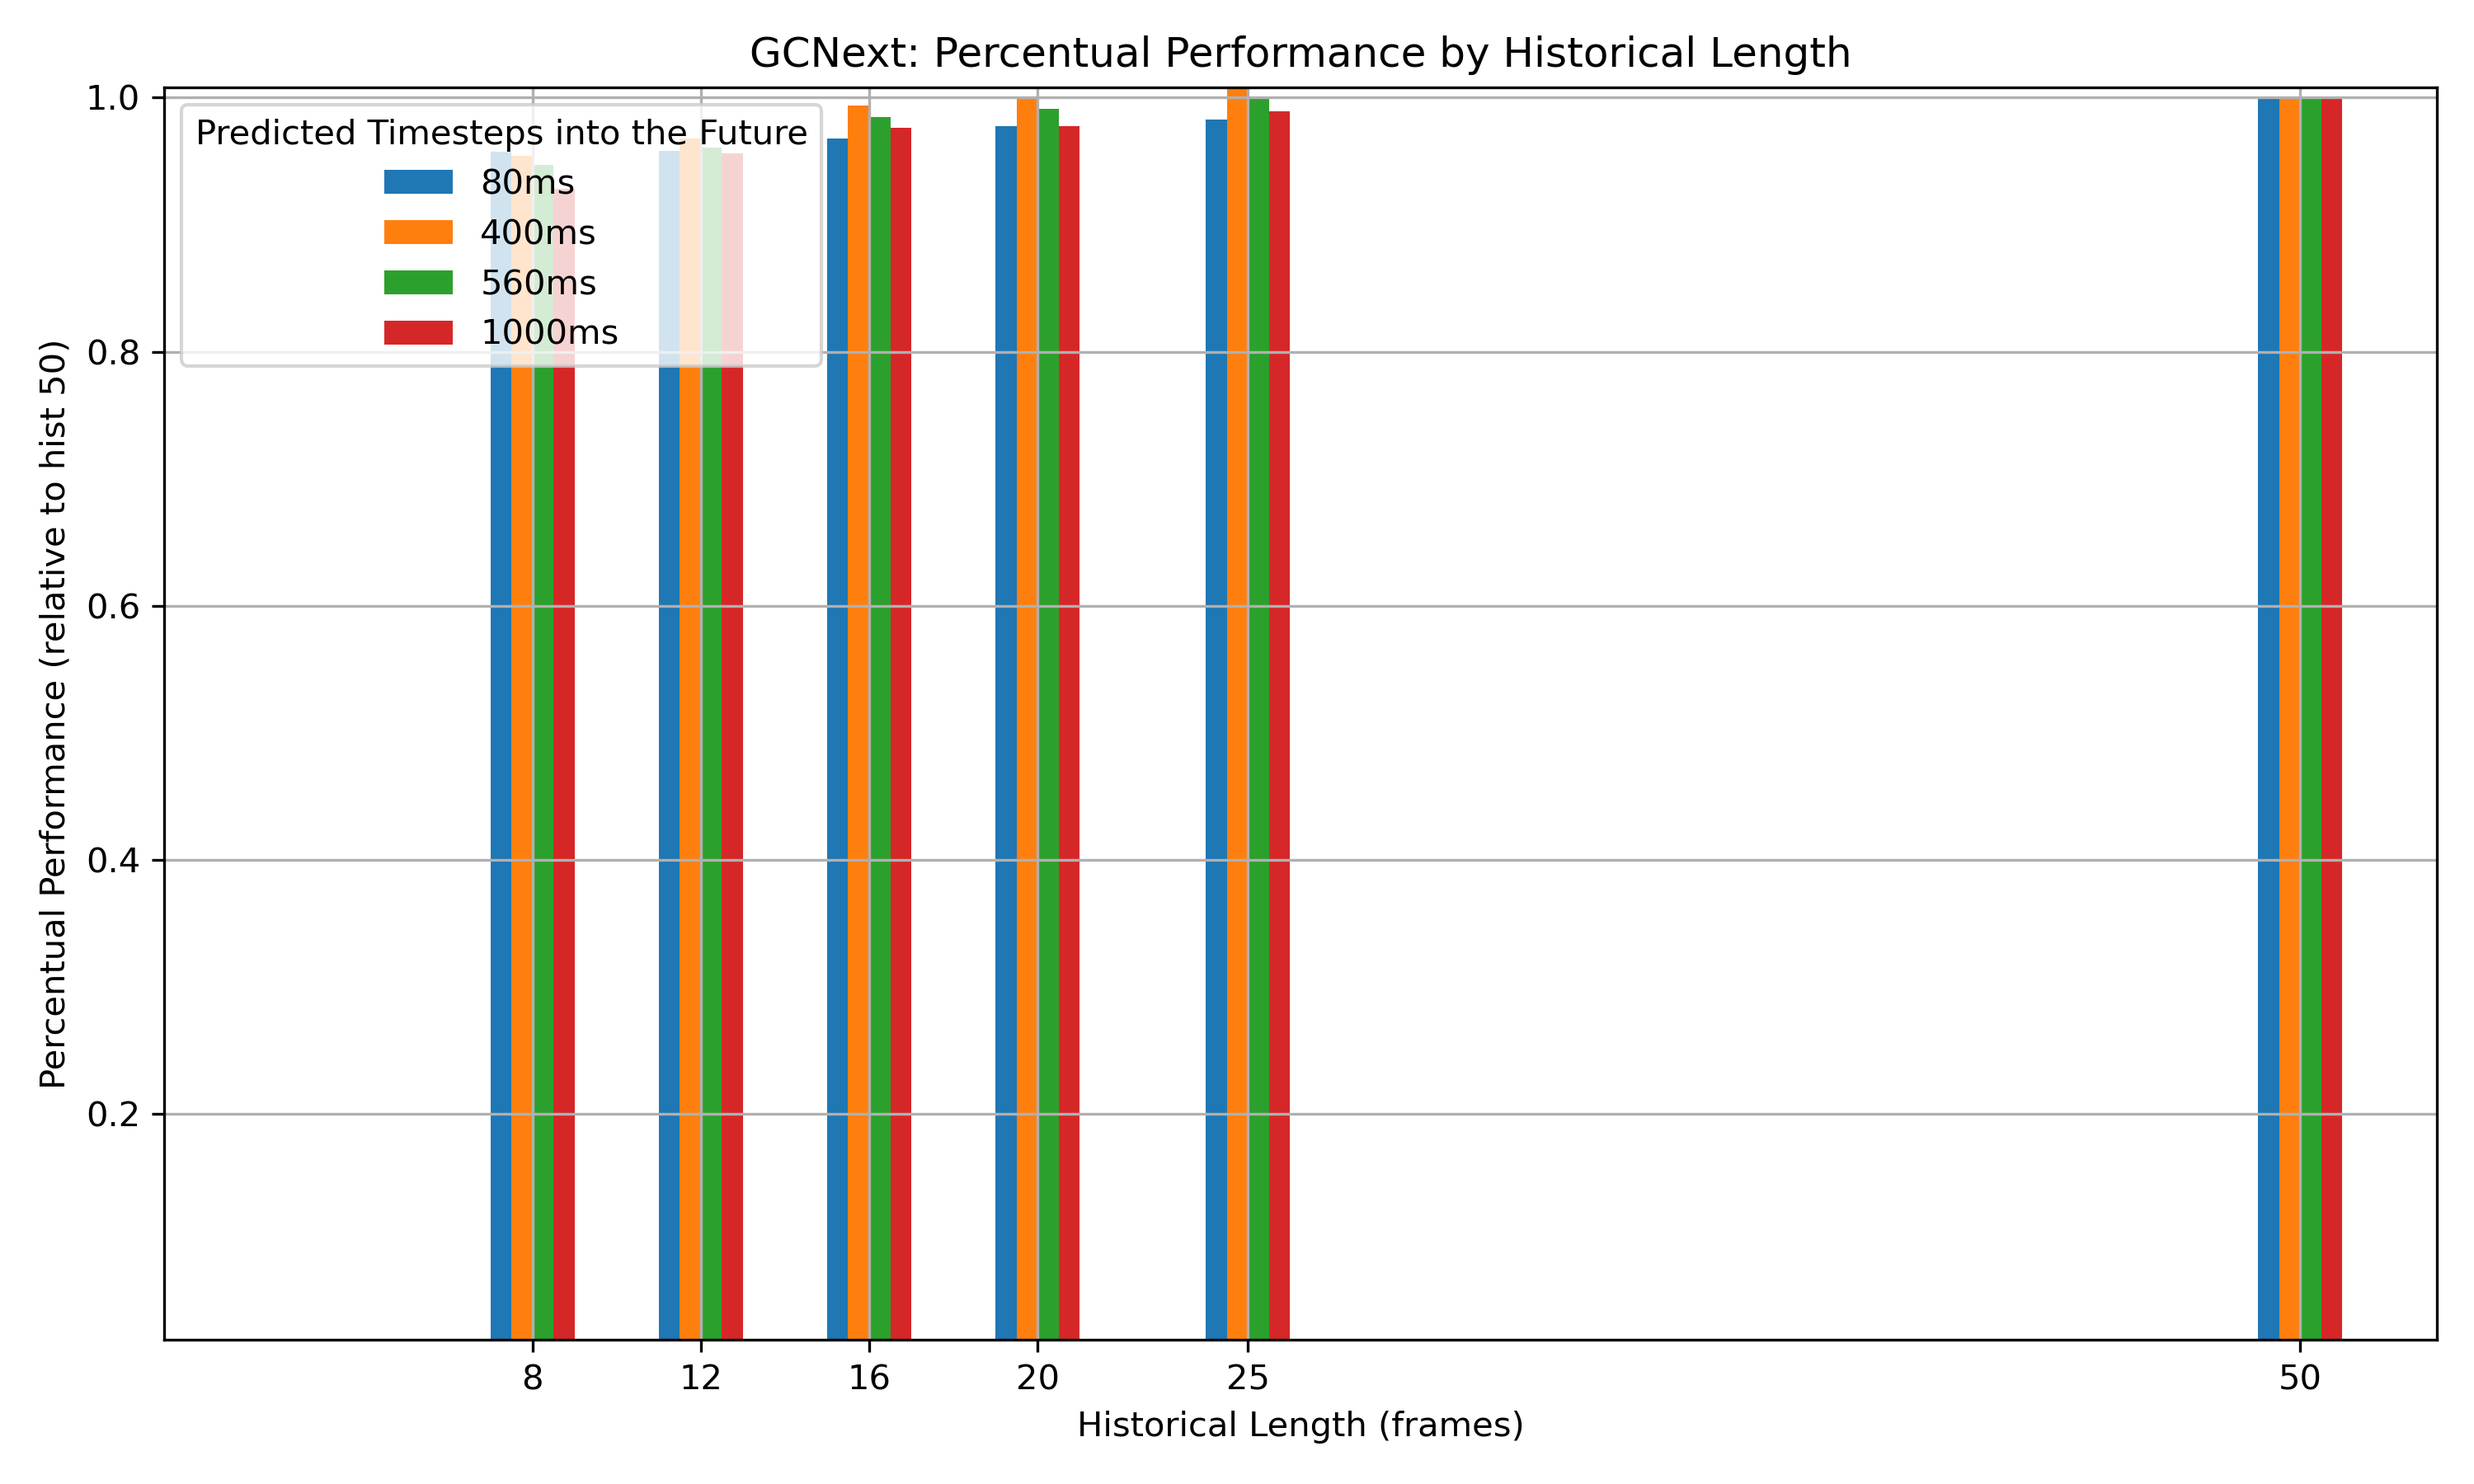
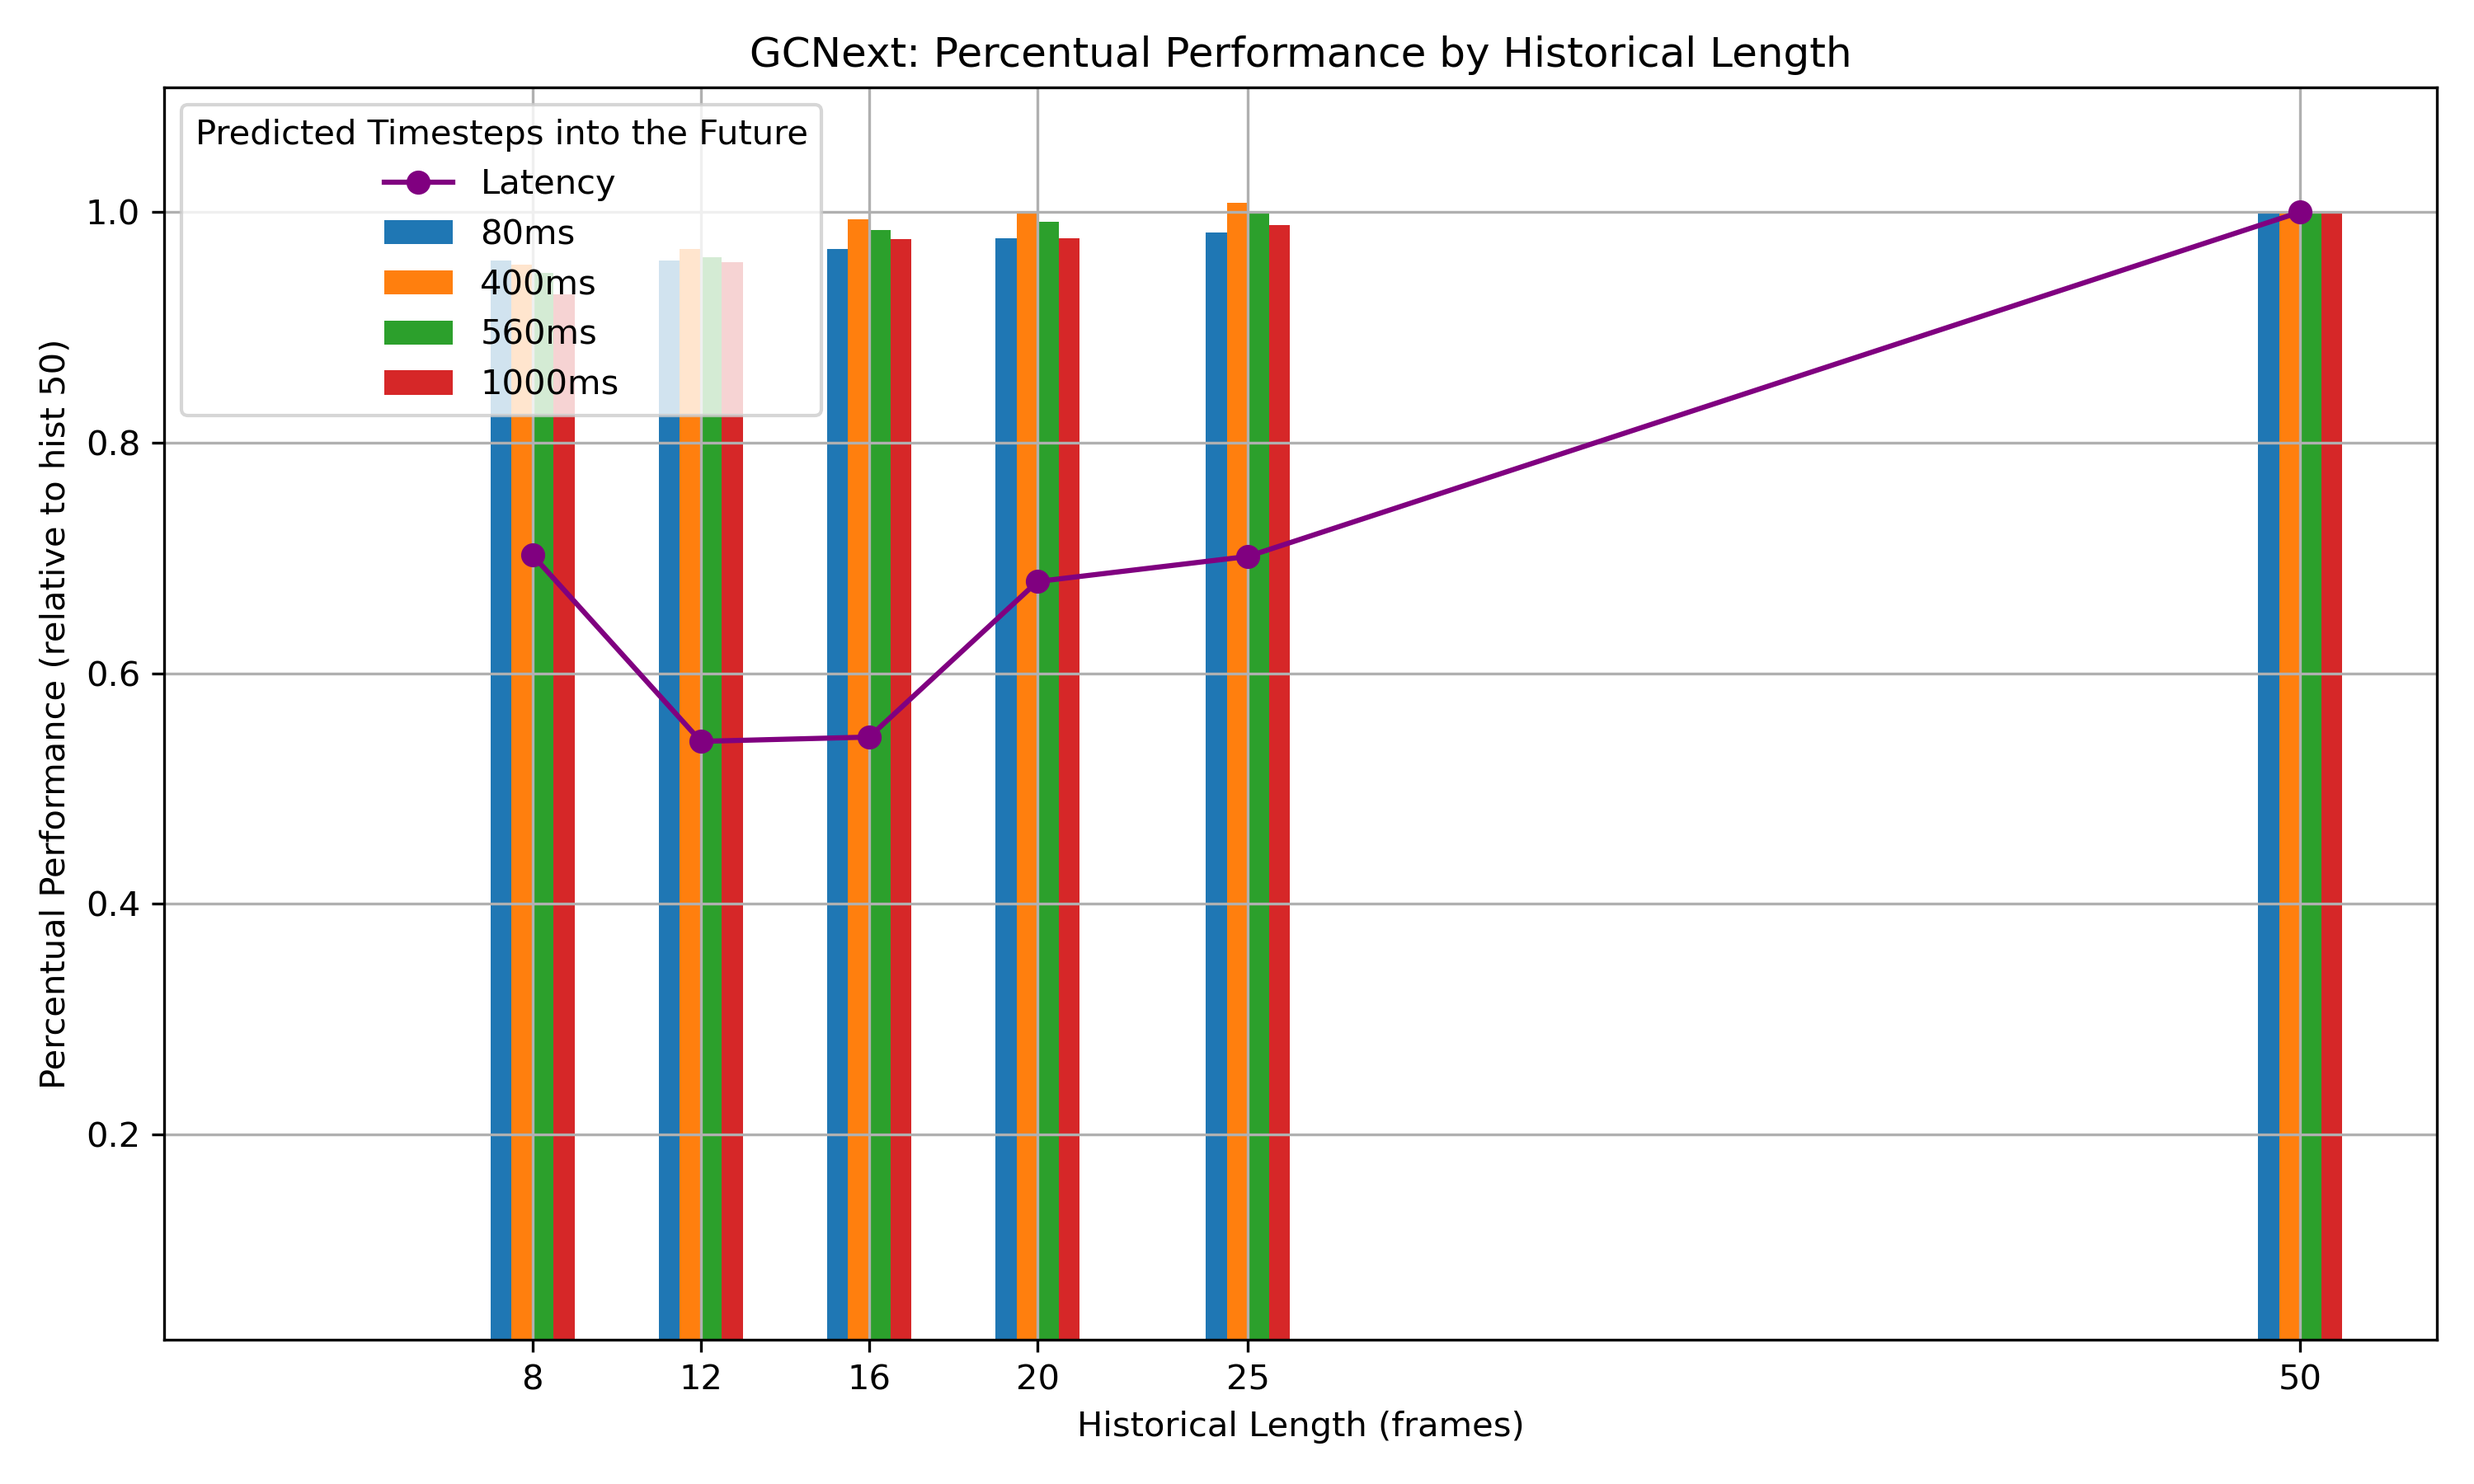
better plots

diff --git a/exps/run/eval_different_lengths.py b/exps/run/eval_different_lengths.py
@@ -116,7 +116,7 @@ x_bar_max = x_max + 4  # for bar plots
 y_min_abs = min(physmop_performance_data.min(), gcn_performance_data.min())
 y_max_abs = max(physmop_performance_data.max(), gcn_performance_data.max())
 y_min_rel = min(physmop_percentual_performance.min(), gcn_percentual_performance.min())
-y_max_rel = max(physmop_percentual_performance.max(), gcn_percentual_performance.max())
+y_max_rel = max(physmop_percentual_performance.max(), gcn_percentual_performance.max()) + 0.1
 
 # --- PhysMoP Line Plot ---
 fig1, ax1 = plt.subplots(figsize=figsize)
@@ -138,6 +138,7 @@ bar_width = .5
 fig2, ax2 = plt.subplots(figsize=figsize)
 for i in range(4):
     ax2.bar(x_physmop + i*bar_width, physmop_percentual_performance[:, i], width=bar_width, label=f'{time_horizons[i]}')
+ax2.plot(x_physmop + 1.5*bar_width, physmop_percentual_latency, color='purple', marker='o', linestyle='-', label='Latency')
 ax2.set_xticks(x_physmop + 1.5*bar_width)
 ax2.set_xticklabels(physmop_hist_lengths)
 ax2.set_xlim(x_min, x_bar_max)
@@ -169,6 +170,7 @@ x_gcn = np.array(gcn_hist_lengths)
 fig4, ax4 = plt.subplots(figsize=figsize)
 for i in range(4):
     ax4.bar(x_gcn + i*bar_width, gcn_percentual_performance[:, i], width=bar_width, label=f'{time_horizons[i]}')
+ax4.plot(x_gcn + 1.5*bar_width, gcn_percentual_latency, color='purple', marker='o', linestyle='-', label='Latency')
 ax4.set_xticks(x_gcn + 1.5*bar_width)
 ax4.set_xticklabels(gcn_hist_lengths)
 ax4.set_xlim(x_min, x_bar_max)
